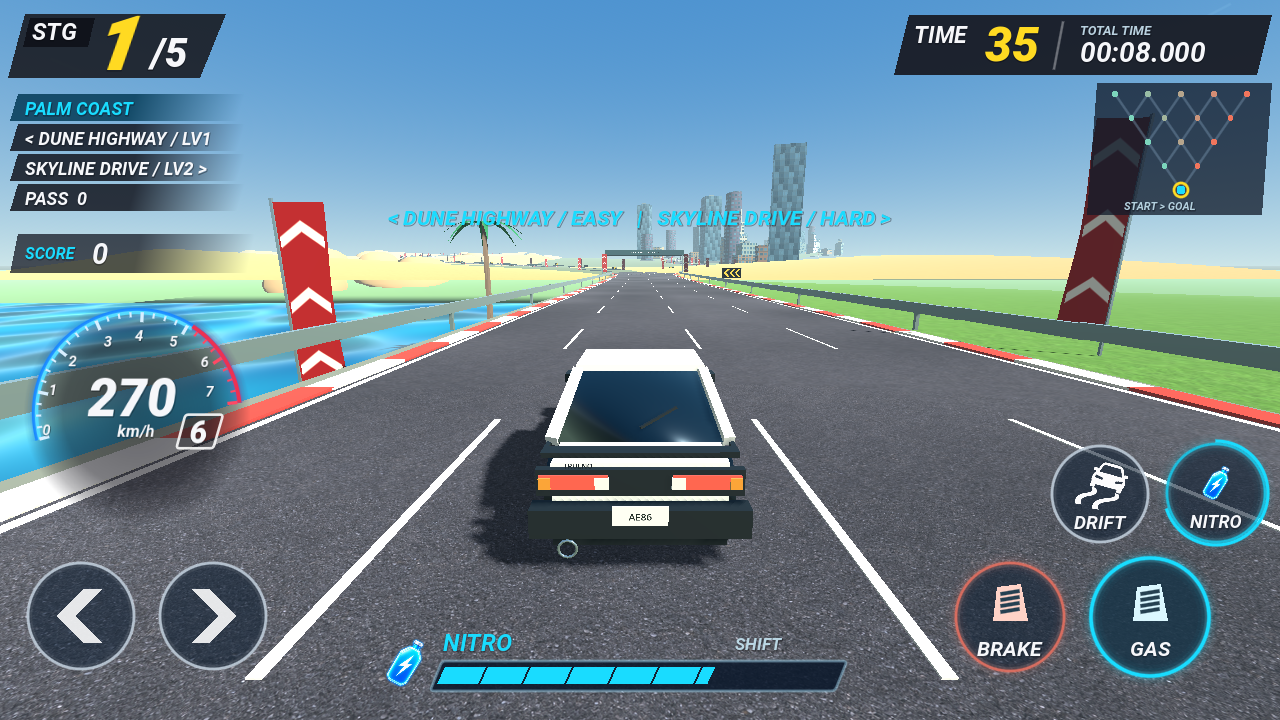
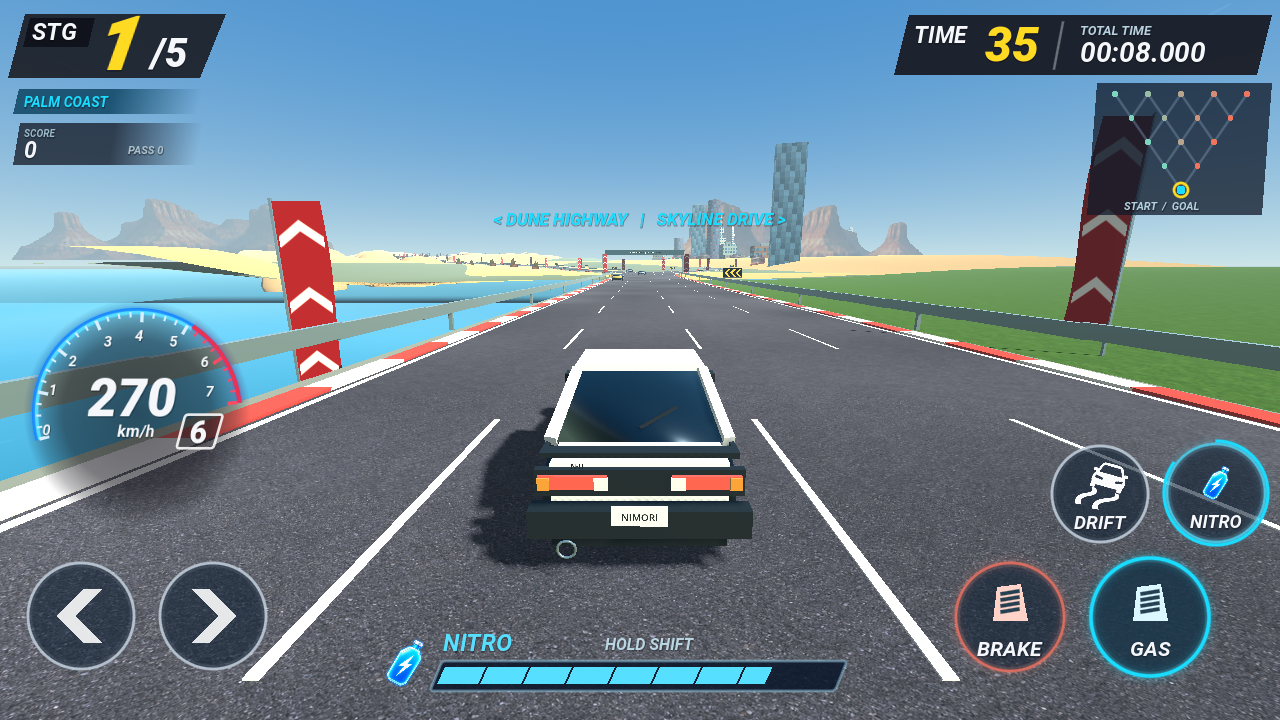
Add generated distant ridges and refine coastal hills and water

diff --git a/new/docs/THEMES.md b/new/docs/THEMES.md
@@ -22,8 +22,16 @@ The native visual review covers all themes via `tests/preview_tour.gd`. New scre
 
 Main art subjects: palms and hibiscus; cactus and sandstone; retail facades; Egyptian obelisks and guardian; carnival kiosk; dol hareubang and basalt; ruined facade and abandoned bus; hanok and ginkgo; cherry tree and stone lantern; neon storefront; sandstone butte; container crane; bamboo; snowy pine and ice; basalt with lava cracks.
 
-Roads, cars, rails, tunnels and large terrain remain 3D. Three-dimensional city silhouettes, the Seoul tower, Ferris wheel, Jeju wind turbines and pyramids supplement the image props. Fuji/snow peaks and a volcanic cone provide distant mass. The neon district has night lighting and headlamps; snow, canyon, harbor, bamboo and volcano use their own sky/fog palettes. Theme transitions blend lighting over three seconds.
+Roads, cars, rails, tunnels and large terrain remain 3D. Three-dimensional city silhouettes, the Seoul tower, Ferris wheel, Jeju wind turbines and pyramids supplement the image props. A three-dimensional Fuji peak and volcanic cone provide distant mass; snow now uses generated irregular ridges instead of repeated plain cones. The neon district has night lighting and headlamps; snow, canyon, harbor, bamboo and volcano use their own sky/fog palettes. Theme transitions blend lighting over three seconds.
 
 ## Checks
 
 `tests/race_test.gd` checks 15 globally unique themes, different siblings at every fork, and no repeats across all 16 complete paths. It also checks atlas coverage, meaningful alpha transparency in every used cell, actual instantiated image props, and clearance from the playable road. Existing geometry, nitro, timer, contact and difficulty checks continue to run. `tests/tour_review.gd` confirms that the same left/right/mixed drivers still finish with the same timings after the scenery changes.
+
+## Distant terrain pass — 2026-11-06
+
+`horizon-ridges.png` is a new transparent generated 2×2 atlas: Hawaiian volcanic folds, Jeju headland, desert mesas and alpine peaks. The generated original was copied unchanged; tight alpha bounds are sampled by UV, with lossless texture import and mipmaps. Six Tour themes select their appropriate cutout. Up to four distant world-space placements are batched per section, with deterministic scale/position and conservative road clearance. They move with perspective as the road turns. Hidden sibling ground also hides its distant ridge batch. TRACK keeps its restored Fuji panorama.
+
+Hawaii and Jeju have low three-dimensional inland hills with a tapered outer edge and darker green terrain. Coastal fallback ground uses a water color so a green strip no longer surrounds the ocean. Water uses non-perpendicular swells, a world-space normal and a restrained grazing-angle sheen, replacing the old high-contrast sine/cosine checkerboard.
+
+Native captures for Hawaii, Jeju, desert and snow were compared during the pass. An initial hill shape was too tall and broad; its height and extent were reduced. Snow's repeated geometric cones were removed after comparison with the generated peaks. Existing gameplay, mode and road-surface checks pass; the changes do not alter road geometry or driving rules.

diff --git a/new/README.md b/new/README.md
@@ -53,6 +53,7 @@ TOUR의 시작 제한 시간은 70초이며, 체크포인트마다 경로에 따
 
 - 하와이·사막·도시·피라미드·놀이공원·제주·폐허·서울·후지산 호수·네온 도심·협곡·항구·대나무숲·설산·화산의 15개 고유 테마
 - 테마별 생성형 이미지 오브젝트를 3D 공간에 배치한 길가 풍경, 거리 차이에 따른 시차와 지면 그림자
+- 하와이·제주·사막·피라미드·협곡·설산의 생성형 원경 능선, 해안의 3D 언덕과 부드러운 수면 반사
 - 약 16.7~18.3 km의 실제 3D 도로, 변화하는 도로 폭과 고저차, 물리적으로 갈라지는 분기
 - 오른쪽을 고를수록 길어지는 거리, 좁아지는 폭, 강해지는 코너·교통량·시간 압박
 - 6종 건물 형태와 외벽 재질, 가로수·관람차·풍력 발전기·탑
